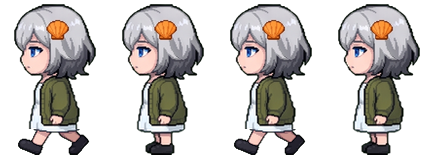
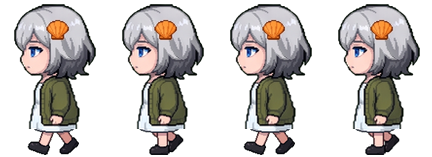
옆모습 걷기: 작은 보폭 내딛기 + 중간 자세(두 발이 지나가는 순간)로 교체
Claude-Session: https://claude.ai/code/session_01MBgVgKbFxkEXND4zuEcjdV

diff --git a/tools/sprite_cleanup/compose_walk.py b/tools/sprite_cleanup/compose_walk.py
@@ -148,7 +148,7 @@ def finish(out, meta, name, frames, cw, ch, fps, mirror_as, msg):
     print(msg)
 
 
-def main(out_dir, name, idle_name, legs_src, fps=6, body=False, hands=0, lift=0, side=False, mirror_as=None):
+def main(out_dir, name, idle_name, legs_src, fps=6, body=False, hands=0, lift=0, side=False, mirror_as=None, mid_src=None):
     out = Path(out_dir)
     meta = json.loads((out / "frames.json").read_text(encoding="utf-8"))
     cw, ch = meta["cell"]
@@ -271,7 +271,14 @@ def main(out_dir, name, idle_name, legs_src, fps=6, body=False, hands=0, lift=0,
     if side:
         a1 = swing_hand_side(step, sa, s_hem, hands) if hands else step
         a2 = swing_hand_side(step, sa, s_hem, -hands) if hands else step
-        frames = [Image.fromarray(a1, "RGBA"), stand, Image.fromarray(a2, "RGBA"), stand]
+        mid = stand
+        if mid_src:   # 중간 자세(두 발이 지나가는 순간)도 같은 방식으로 합성
+            main(out_dir, "_mid", idle_name, mid_src, fps, side=True)
+            mid = Image.open(out / "_mid.png").crop((0, 0, cw, ch))
+            (out / "_mid.png").unlink()
+            meta = json.loads((out / "frames.json").read_text(encoding="utf-8"))
+            meta["animations"].pop("_mid", None)
+        frames = [Image.fromarray(a1, "RGBA"), mid, Image.fromarray(a2, "RGBA"), mid]
         return finish(out, meta, name, frames, cw, ch, fps, mirror_as, f"{name}: 4칸 (옆모습, 다리 배율 x{k2:.2f})")
     if hands:
         # 팔 흔들림: 정지 그림의 손만 옮김 (화면 오른쪽 손 = 앞으로 → 아래로, 왼쪽 손 = 뒤로 → 소매 속으로 위로)

diff --git a/tools/sprite_cleanup/clean_chroma.py b/tools/sprite_cleanup/clean_chroma.py
@@ -302,7 +302,8 @@ def main(cfg_path, out_dir):
         from compose_walk import main as compose
         compose(out, cw_opt["name"], cw_opt["idle"], str(Path(cfg_path).parent / cw_opt.get("legs", "")), cw_opt.get("fps", 6),
                 cw_opt.get("body", False), cw_opt.get("hands", 0), cw_opt.get("lift", 0),
-                cw_opt.get("side", False), cw_opt.get("mirror_as"))
+                cw_opt.get("side", False), cw_opt.get("mirror_as"),
+                str(Path(cfg_path).parent / cw_opt["mid"]) if cw_opt.get("mid") else None)
 
 
 def breathe(path, n, cw, ch, idx):
